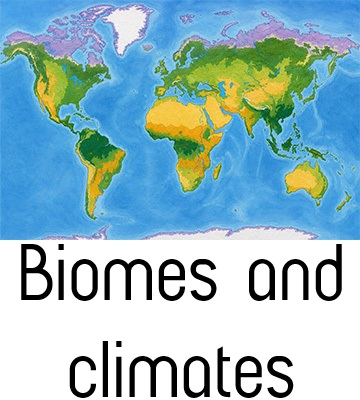
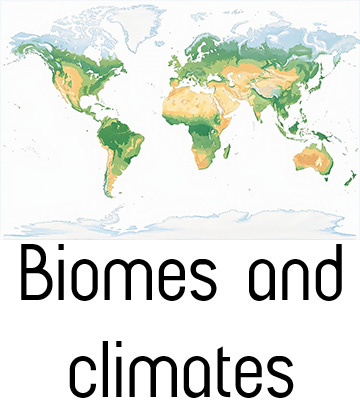
Add files via upload

diff --git a/english/index_10e.html b/english/index_10e.html
@@ -1,0 +1,105 @@
+<!DOCTYPE html>
+<html lang="en">
+<head>
+  <meta charset="UTF-8">
+  <meta name="viewport" content="width=device-width, initial-scale=1.0, maximum-scale=1.0, user-scalable=no">
+     <meta name="description" content="Juegos Educativos de Memoria y Rompecabezas">
+  <meta name="keywords" content="Juegos, Educativo, Memorama, Rompecabezas">
+  <meta name="author" content="Guillermo Rayas Monroy">
+    <link rel="stylesheet" href="../style.css">
+    <title>Natural Wonders of the World</title>
+<style>
+.back {
+      --s: 15px; /* control the size*/
+  --c1: darkgreen;
+  --c2: limegreen;
+  
+  --_g: 
+    #0000 calc(-650%/13) calc(50%/13),var(--c1) 0 calc(100%/13),
+    #0000 0 calc(150%/13),var(--c1) 0 calc(200%/13),
+    #0000 0 calc(250%/13),var(--c1) 0 calc(300%/13);
+  --_g0: repeating-linear-gradient( 45deg,var(--_g));
+  --_g1: repeating-linear-gradient(-45deg,var(--_g));
+  background:
+    var(--_g0),var(--_g0) var(--s) var(--s),
+    var(--_g1),var(--_g1) var(--s) var(--s) var(--c2);
+  background-size: calc(2*var(--s)) calc(2*var(--s));
+    }
+</style>
+</head>
+
+<body>
+
+  <div class="container">
+
+    <!-- Header -->
+    <div class="header">
+      <h2>Natural Wonders of the World 🗻</h2>
+    </div>
+
+    <!-- Main Viewer -->
+    <div class="viewer2">
+  <div id="grid" class="grid"></div>
+</div>
+
+    
+    <!-- Bottom Buttons -->
+    <div class="bottom-buttons">
+        <button id="gobackbtn" onclick="goBack2()">⨞</button>
+        <button id="gobackbtn" onclick="window.location.reload();">🗘</button>
+       <div class="score">Tries<span id="tries">0</span></div>
+        <div class="score">
+      Score:  🥇: -20 🥈: -30 🥉: 31+
+          </div>
+</div>
+  </div>
+    <script>
+     // QUESTION → ANSWER PAIRS
+const pairs = [
+  {
+    question: "cards100.jpg",
+    answer: "Northern Lights"
+  },
+  {
+    question: "cards101.jpg",
+    answer: "Grand Canyon"
+  },
+  {
+    question: "cards102.jpg",
+    answer: "Great Barrier Reef"
+  },
+  {
+    question: "cards103.jpg",
+    answer: "Mount Everest"
+  },
+  {
+    question: "cards104.jpg",
+    answer: "Amazon Rainforest"
+  },
+    {
+    question: "cards105.jpg",
+    answer: "Iguazú Falls"
+  },
+    {
+    question: "cards106.jpg",
+    answer: "Sahara Desert"
+  },
+    {
+    question: "cards107.jpg",
+    answer: "Ha Long Bay"
+  },
+   {
+    question: "cards108.jpg",
+    answer: "Parícutin Volcano"
+  },
+   {
+    question: "cards109.jpg",
+    answer: "Avenue of the Baobabs"
+  },
+    
+];
+    </script>
+    <script type="text/javascript" src="../memory.js"></script>
+    
+</body>
+</html>

diff --git a/english/index_28e.html b/english/index_28e.html
@@ -1,0 +1,103 @@
+<!DOCTYPE html>
+<html lang="en">
+<head>
+  <meta charset="UTF-8">
+  <meta name="viewport" content="width=device-width, initial-scale=1.0, maximum-scale=1.0, user-scalable=no">
+     <meta name="description" content="Juegos Educativos de Memoria y Rompecabezas">
+  <meta name="keywords" content="Juegos, Educativo, Memorama, Rompecabezas">
+  <meta name="author" content="Guillermo Rayas Monroy">
+    <link rel="stylesheet" href="../style.css">
+    <title>Dishes of the World</title>
+<style>
+.back {
+      --s: 15px; /* control the size*/
+  --c1: maroon;
+  --c2: crimson;
+  
+  --_g: 
+    #0000 calc(-650%/13) calc(50%/13),var(--c1) 0 calc(100%/13),
+    #0000 0 calc(150%/13),var(--c1) 0 calc(200%/13),
+    #0000 0 calc(250%/13),var(--c1) 0 calc(300%/13);
+  --_g0: repeating-linear-gradient( 45deg,var(--_g));
+  --_g1: repeating-linear-gradient(-45deg,var(--_g));
+  background:
+    var(--_g0),var(--_g0) var(--s) var(--s),
+    var(--_g1),var(--_g1) var(--s) var(--s) var(--c2);
+  background-size: calc(2*var(--s)) calc(2*var(--s));
+    }
+</style>
+</head>
+
+<body>
+
+  <div class="container">
+
+    <!-- Header -->
+    <div class="header">
+      <h2>Dishes of the World 🍔</h2>
+    </div>
+
+    <!-- Main Viewer -->
+    <div class="viewer2">
+  <div id="grid" class="grid"></div>
+</div>
+
+    
+    <!-- Bottom Buttons -->
+    <div class="bottom-buttons">
+        <button id="gobackbtn" onclick="goBack2()">⨞</button>
+        <button id="gobackbtn" onclick="window.location.reload();">🗘</button>
+       <div class="score">Tries<span id="tries">0</span></div>
+        <div class="score">
+      Score:  🥇: -20 🥈: -30 🥉: 31+
+          </div>
+</div>
+  </div>
+    <script>
+     // QUESTION → ANSWER PAIRS
+const pairs = [
+  {
+    question: "cards121.jpg",
+    answer: "Mole Poblano"
+  },
+  {
+    question: "cards122.jpg",
+    answer: "Pizza Margherita"
+  },
+  {
+    question: "cards123.jpg",
+    answer: "Sushi"
+  },
+  {
+    question: "cards124.jpg",
+    answer: "Paella" 
+  },
+  {
+    question: "cards125.jpg",
+    answer: "Biryani"
+  },
+    {
+    question: "cards126.jpg",
+    answer: "Feijoada"
+  },
+    {
+    question: "cards127.jpg",
+    answer: "Ceviche"
+  },
+    {
+    question: "cards128.jpg",
+    answer: "Hamburger"
+  },
+    {
+    question: "cards129.jpg",
+    answer: "Fish and Chips"
+  },
+  {
+    question: "cards130.jpg",
+    answer: "Bibimbap"
+  },
+];
+    </script>
+    <script src="../memory.js"></script>
+</body>
+</html>

diff --git a/english/index_17e.html b/english/index_17e.html
@@ -1,0 +1,87 @@
+<!DOCTYPE html>
+<html lang="en">
+<head>
+  <meta charset="UTF-8">
+  <meta name="viewport" content="width=device-width, initial-scale=1.0, maximum-scale=1.0, user-scalable=no">
+     <meta name="description" content="Juegos Educativos de Memoria y Rompecabezas">
+  <meta name="keywords" content="Juegos, Educativo, Memorama, Rompecabezas">
+  <meta name="author" content="Guillermo Rayas Monroy">
+    <link rel="stylesheet" href="../style.css">
+    <title>Wonders of the Universe</title>
+
+</head>
+
+<body>
+
+  <div class="container">
+
+    <!-- Header -->
+    <div class="header">
+      <h2> Wonders of the Universe🌠</h2>
+    </div>
+
+    <!-- Main Viewer -->
+    <div class="viewer2">
+  <div id="grid" class="grid"></div>
+</div>
+
+    
+    <!-- Bottom Buttons -->
+    <div class="bottom-buttons">
+        <button id="gobackbtn" onclick="goBack2()">⨞</button>
+        <button id="gobackbtn" onclick="window.location.reload();">🗘</button>
+       <div class="score">Tries<span id="tries">0</span></div>
+        <div class="score">
+      Score:  🥇: -20 🥈: -30 🥉: 31+
+          </div>
+</div>
+  </div>
+    <script>
+     // QUESTION → ANSWER PAIRS
+const pairs = [
+  {
+    question: "cards111.jpg",
+    answer: "Black Hole"
+  },
+  {
+    question: "cards112.jpg",
+    answer: "Nebula"
+  },
+  {
+    question: "cards113.jpg",
+    answer: "Star"
+  },
+  {
+    question: "cards114.jpg",
+    answer: "Supernova" 
+  },
+  {
+    question: "cards115.jpg",
+    answer: "Asteroid"
+  },
+    {
+    question: "cards116.jpg",
+    answer: "Comet"
+  },
+    {
+    question: "cards117.jpg",
+    answer: "Galaxy"
+  },
+    {
+    question: "cards118.jpg",
+    answer: "Neutron Star"
+  },
+    {
+    question: "cards119.jpg",
+    answer: "Solar Eclipse"
+  },
+  {
+    question: "cards120.jpg",
+    answer: "Meteor"
+  },
+];
+    </script>
+    <script type="text/javascript" src="../memory.js"></script>
+    
+</body>
+</html>
